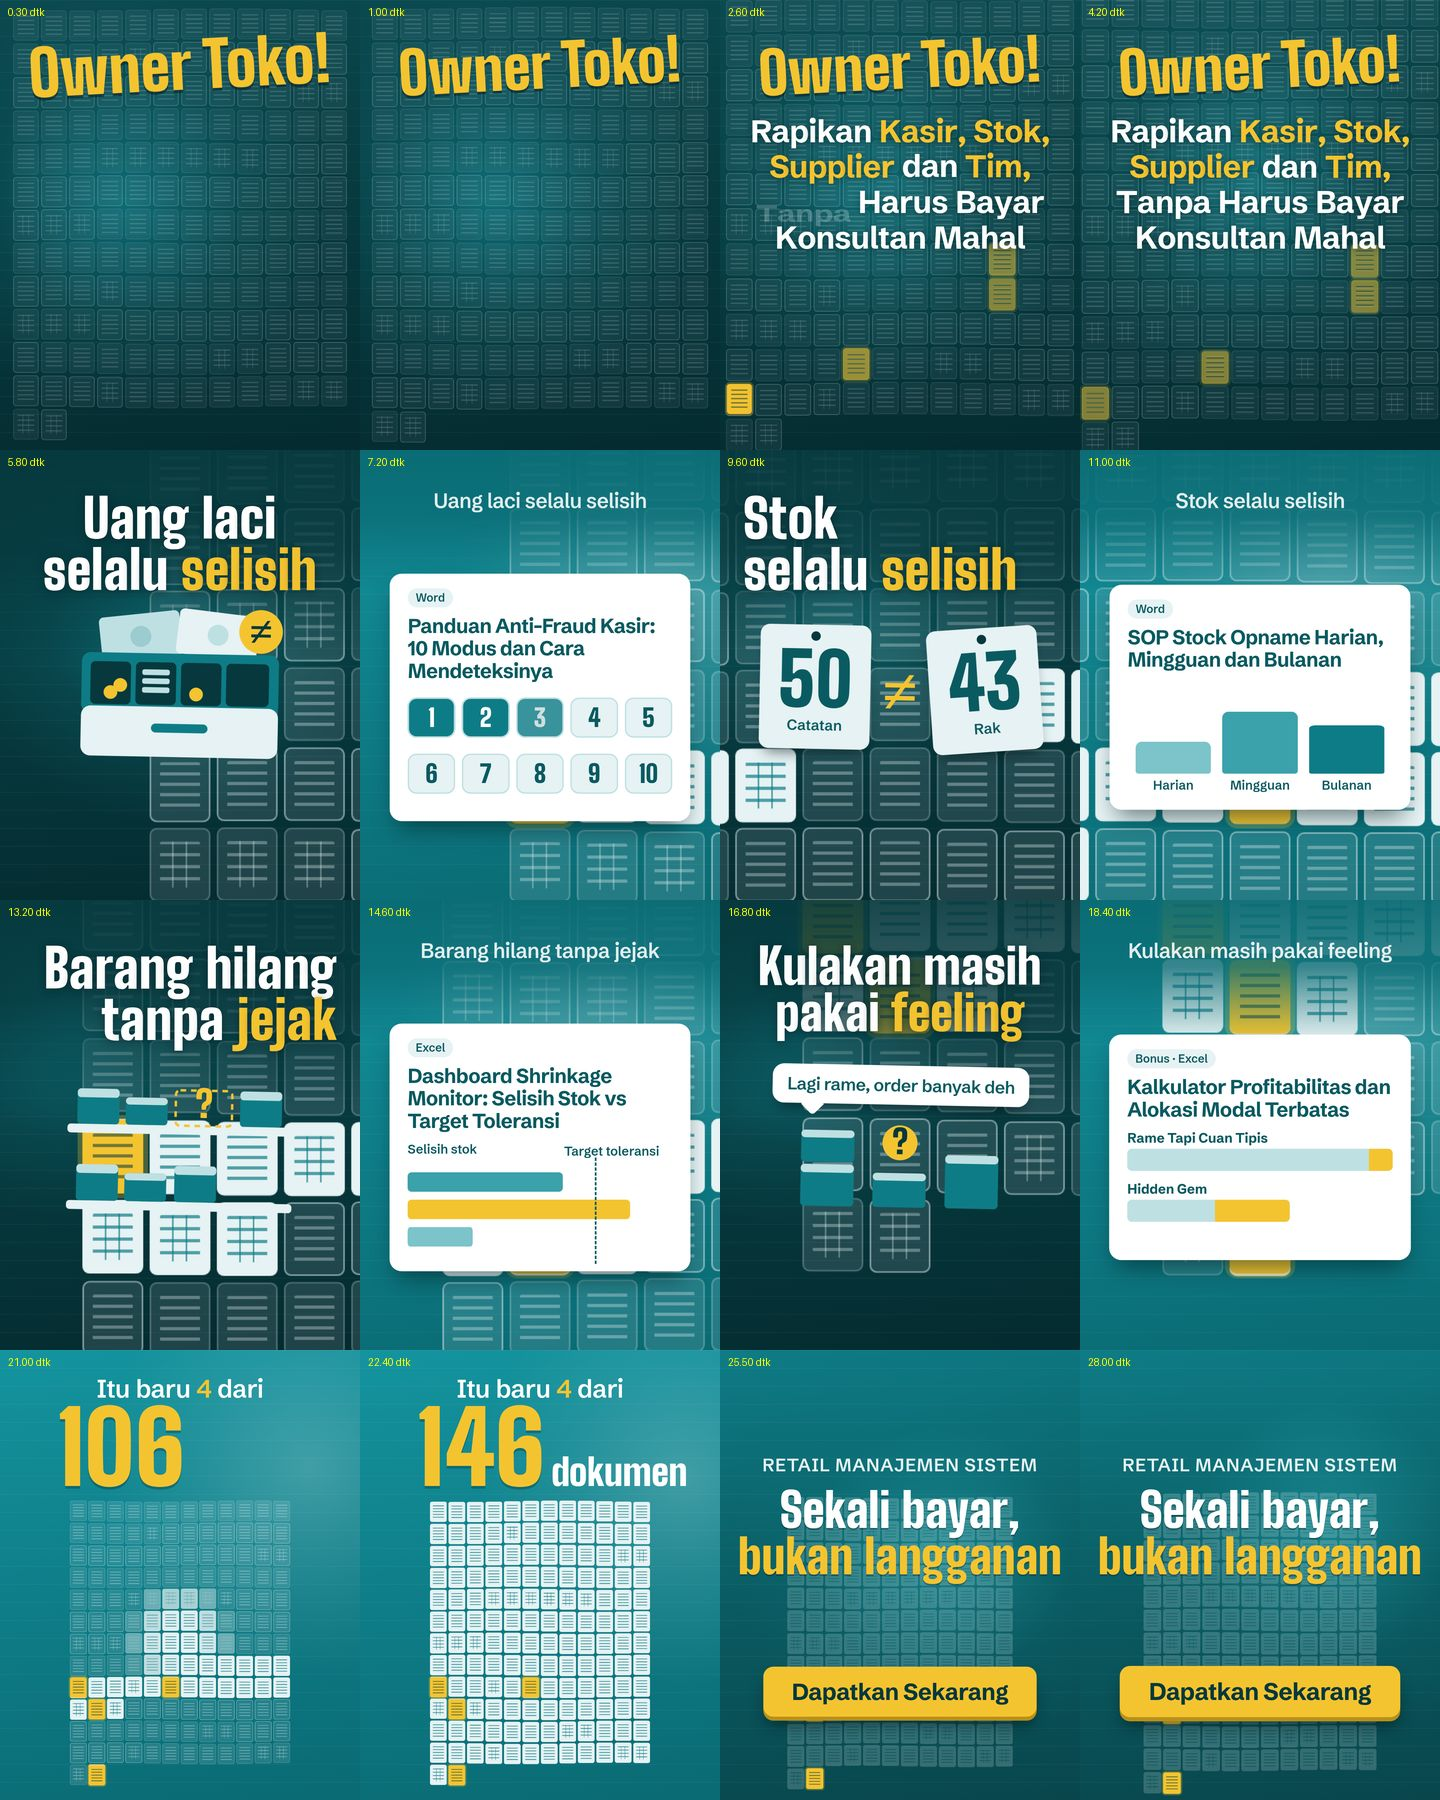
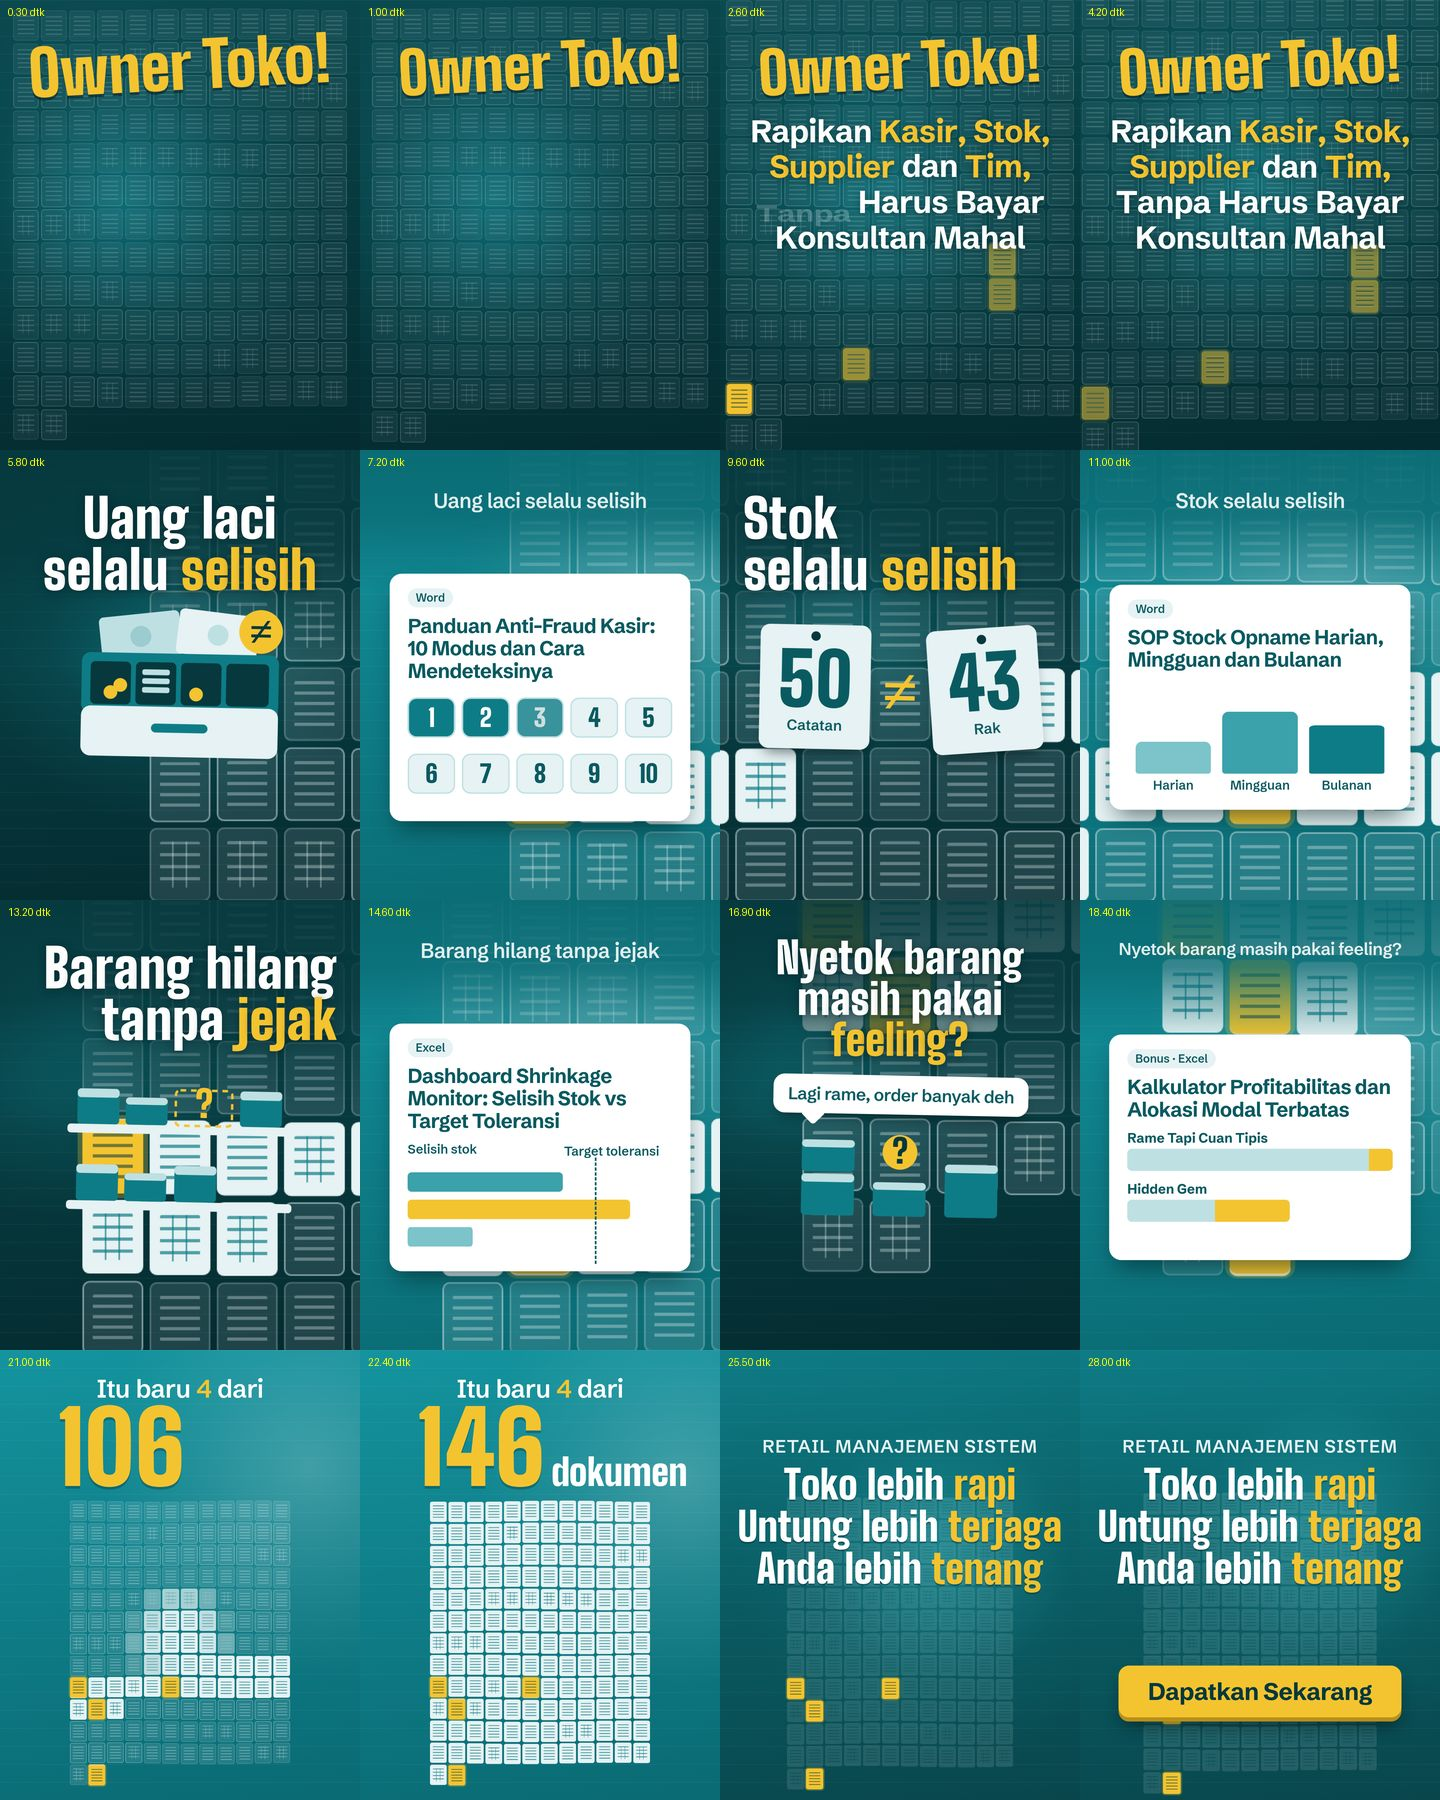
Promo 1: ganti hook bab 4 jadi 'Nyetok barang masih pakai feeling?', penutup jadi tiga manfaat
Claude-Session: https://claude.ai/code/session_01UMN6b96XPFLNVTRhgm7URb

diff --git a/projects/promo-1-rms/index.html b/projects/promo-1-rms/index.html
@@ -128,8 +128,8 @@ html,body{width:100%;height:100%;background:#000;overflow:hidden;font-family:"Sc
 #wide .wn b{font:900 300px/.9 "Big Shoulders Display";color:var(--amber);min-width:3ch;text-align:right;font-variant-numeric:tabular-nums;text-shadow:0 8px 0 rgba(3,30,34,.28);opacity:0}
 #wide .wn span{font:900 112px/1 "Big Shoulders Display";color:#fff;opacity:0}
 #close{left:0;right:0;top:0;bottom:0}
-#close .cl{position:absolute;left:0;right:0;top:318px;text-align:center;font:600 54px/1 "Schibsted Grotesk";letter-spacing:.04em;color:var(--mint);opacity:0}
-#close .cb{position:absolute;left:30px;right:30px;top:410px;text-align:center;font:900 142px/.98 "Big Shoulders Display";color:#fff;text-shadow:0 5px 0 rgba(3,30,34,.35)}
+#close .cl{position:absolute;left:0;right:0;top:262px;text-align:center;font:600 54px/1 "Schibsted Grotesk";letter-spacing:.04em;color:var(--mint);opacity:0}
+#close .cb{position:absolute;left:30px;right:30px;top:340px;text-align:center;font:900 120px/1.05 "Big Shoulders Display";color:#fff;text-shadow:0 5px 0 rgba(3,30,34,.35)}
 #btn{position:absolute;left:50%;top:950px;width:820px;height:150px;margin-left:-410px;border-radius:30px;background:var(--amber);color:#06383D;
   display:flex;align-items:center;justify-content:center;font:700 70px/1 "Schibsted Grotesk";letter-spacing:-.02em;opacity:0;
   box-shadow:0 12px 0 #B8901A, 0 34px 46px -12px rgba(3,20,24,.6)}
@@ -167,12 +167,12 @@ html,body{width:100%;height:100%;background:#000;overflow:hidden;font-family:"Sc
     <div class="ptxt al-c" id="p1"><div class="ln" data-t="Uang laci"></div><div class="ln" data-t="selalu selisih" data-am="selisih"></div></div>
     <div class="ptxt al-l" id="p2"><div class="ln" data-t="Stok"></div><div class="ln" data-t="selalu selisih" data-am="selisih"></div></div>
     <div class="ptxt al-r" id="p3"><div class="ln" data-t="Barang hilang"></div><div class="ln" data-t="tanpa jejak" data-am="jejak"></div></div>
-    <div class="ptxt al-c" id="p4" style="font-size:146px"><div class="ln" data-t="Kulakan masih"></div><div class="ln" data-t="pakai feeling" data-am="feeling"></div></div>
+    <div class="ptxt al-c" id="p4" style="font-size:128px;top:112px"><div class="ln" data-t="Nyetok barang"></div><div class="ln" data-t="masih pakai"></div><div class="ln" data-t="feeling?" data-am="feeling"></div></div>
 
     <div class="phead" id="h1">Uang laci selalu selisih</div>
     <div class="phead" id="h2">Stok selalu selisih</div>
     <div class="phead" id="h3">Barang hilang tanpa jejak</div>
-    <div class="phead" id="h4">Kulakan masih pakai feeling</div>
+    <div class="phead" id="h4" style="font-size:52px">Nyetok barang masih pakai feeling?</div>
 
     <!-- visual masalah -->
     <div class="vis" id="v1">
@@ -203,7 +203,7 @@ html,body{width:100%;height:100%;background:#000;overflow:hidden;font-family:"Sc
         <g fill="#BFE0E3"><rect x="44" y="270" width="104" height="22" rx="9"/><rect x="164" y="290" width="104" height="18" rx="9"/><rect x="288" y="270" width="104" height="22" rx="9"/></g>
       </svg>
     </div>
-    <div class="vis" id="v4">
+    <div class="vis" id="v4" style="top:744px">
       <div class="bubble">Lagi rame, order banyak deh</div>
       <svg width="680" height="283" viewBox="0 0 600 250" style="display:block;margin:34px auto 0">
         <g fill="#0E7C86"><rect x="40" y="130" width="140" height="110" rx="10"/><rect x="40" y="40" width="140" height="84" rx="10"/><rect x="230" y="150" width="140" height="90" rx="10"/><rect x="420" y="100" width="140" height="140" rx="10"/></g>
@@ -239,7 +239,7 @@ html,body{width:100%;height:100%;background:#000;overflow:hidden;font-family:"Sc
     <!-- 4. penutup -->
     <div id="close">
       <div class="cl">RETAIL MANAJEMEN SISTEM</div>
-      <div class="cb"><div class="ln" data-t="Sekali bayar,"></div><div class="ln" data-t="bukan langganan" data-am="langganan bukan"></div></div>
+      <div class="cb"><div class="ln" data-t="Toko lebih rapi" data-am="rapi"></div><div class="ln" data-t="Untung lebih terjaga" data-am="terjaga"></div><div class="ln" data-t="Anda lebih tenang" data-am="tenang"></div></div>
       <div id="btn">Dapatkan Sekarang</div>
     </div>
   </div>
@@ -450,16 +450,18 @@ tl.set($('#bgC'),{opacity:1},TC-.1);
 tl.set(BG,{cx:540,cy:700},TC-.1);
 tl.to(BG,{r:0,duration:.6,ease:'power2.inOut'},TC-.05);                      // teal menyusut, teal gelap terbuka
 tl.to(CAM,{s:.7,duration:5.4,ease:'sine.inOut'},TC);
-tl.to(wall,{opacity:.2,duration:.5},TC-.05);
+tl.to(wall,{opacity:.12,duration:.5},TC-.05);
 const cl=$('#close .cl'),cb=buildGroup($('#close .cb')),btn=$('#btn');
 gsap.set(btn,{transformOrigin:'50% 60%'});
 tl.fromTo(cl,{opacity:0,y:30},{opacity:1,y:0,duration:.6,ease:'power4.out',immediateRender:false},TC+.45);
-inLeft({el:cb.lines[0].words[0].parentNode,chars:cb.lines[0].chars},TC+.7,{dur:.7});
-inRight({el:cb.lines[1].words[0].parentNode,chars:cb.lines[1].chars},TC+1.0,{dur:.7});
-tl.fromTo(btn,{opacity:0,y:-380,scale:1.18},{opacity:1,y:0,scale:1,duration:.34,ease:'power4.in',immediateRender:false},TC+1.9);
-thump(btn,TC+2.24,1.06);
-tl.fromTo(btn,{boxShadow:'0 12px 0 #B8901A, 0 34px 46px -12px rgba(3,20,24,.6)'},{boxShadow:'0 4px 0 #B8901A, 0 18px 30px -12px rgba(3,20,24,.5)',duration:.07,yoyo:true,repeat:1,immediateRender:false},TC+2.24);
-tl.to(btn,{scale:1.035,duration:.6,yoyo:true,repeat:3,ease:'sine.inOut'},TC+3.0);
+const cbl=cb.lines.map(l=>({el:l.words[0].parentNode,chars:l.chars}));
+inLeft(cbl[0],TC+.7,{dur:.7});
+inRight(cbl[1],TC+1.25,{dur:.7});
+inUp(cbl[2],TC+1.8,{dur:.8});
+tl.fromTo(btn,{opacity:0,y:-380,scale:1.18},{opacity:1,y:0,scale:1,duration:.34,ease:'power4.in',immediateRender:false},TC+2.9);
+thump(btn,TC+3.24,1.06);
+tl.fromTo(btn,{boxShadow:'0 12px 0 #B8901A, 0 34px 46px -12px rgba(3,20,24,.6)'},{boxShadow:'0 4px 0 #B8901A, 0 18px 30px -12px rgba(3,20,24,.5)',duration:.07,yoyo:true,repeat:1,immediateRender:false},TC+3.24);
+tl.to(btn,{scale:1.035,duration:.5,yoyo:true,repeat:3,ease:'sine.inOut'},TC+3.5);
 
 tl.to({},{duration:.01},DURATION);
 

diff --git a/projects/promo-1-rms/naskah.md b/projects/promo-1-rms/naskah.md
@@ -18,9 +18,9 @@ jadi dokumen · pembuka: sapaan + hook · penutup: "4 dari 146" + CTA`
 | 4,6–8,4 | Uang laci selalu selisih | Panduan Anti-Fraud Kasir: 10 Modus dan Cara Mendeteksinya (#118, Word) |
 | 8,4–12,0 | Stok selalu selisih | SOP Stock Opname Harian, Mingguan dan Bulanan (#102, Word) |
 | 12,0–15,6 | Barang hilang tanpa jejak | Dashboard Shrinkage Monitor: Selisih Stok vs Target Toleransi (#110, Excel) |
-| 15,6–19,6 | Kulakan masih pakai feeling | Kalkulator Profitabilitas dan Alokasi Modal Terbatas (#146, Excel, bonus) |
+| 15,6–19,6 | Nyetok barang masih pakai feeling? | Kalkulator Profitabilitas dan Alokasi Modal Terbatas (#146, Excel, bonus) |
 | 19,6–23,0 | Itu baru 4 dari 146 dokumen | dinding 146 sel menyala semua |
-| 23,0–28,5 | label: Retail Manajemen Sistem · besar: Sekali bayar, bukan langganan | tombol Dapatkan Sekarang |
+| 23,0–28,5 | label: Retail Manajemen Sistem · besar, tiga baris bergantian: Toko lebih rapi / Untung lebih terjaga / Anda lebih tenang | tombol Dapatkan Sekarang |
 
 Catatan hook: ejaan "Suplier" dibetulkan jadi "Supplier" (sesuai ejaan di daftar dokumen).
 Sumber angka: master list dokumen (146 = 90 Bagian A + 55 Bagian B + 1 bonus).
@@ -37,3 +37,7 @@ Sumber angka: master list dokumen (146 = 90 Bagian A + 55 Bagian B + 1 bonus).
 - Permukaan latar: gradien teal + cahaya radial + garis tipis kertas nota. Tanpa butiran.
 - Gaya objek: flat kertas bersusun, bayangan lembut.
 - Momen istimewa: seluruh dinding menyala bergelombang di "4 dari 146".
+
+## Revisi
+- Bab 4: "Kulakan masih pakai feeling" → "Nyetok barang masih pakai feeling?" (kata-kata dari user).
+- Penutup: "Sekali bayar, bukan langganan" dibuang (sifat produk, bukan manfaat). Diganti tiga manfaat menyeluruh: toko (rapi), bisnis (untung terjaga), pemilik (tenang). Sumber: daftar manfaat di dokumen produk ("uang tidak bocor, keuntungan terjaga"; "tenang").
